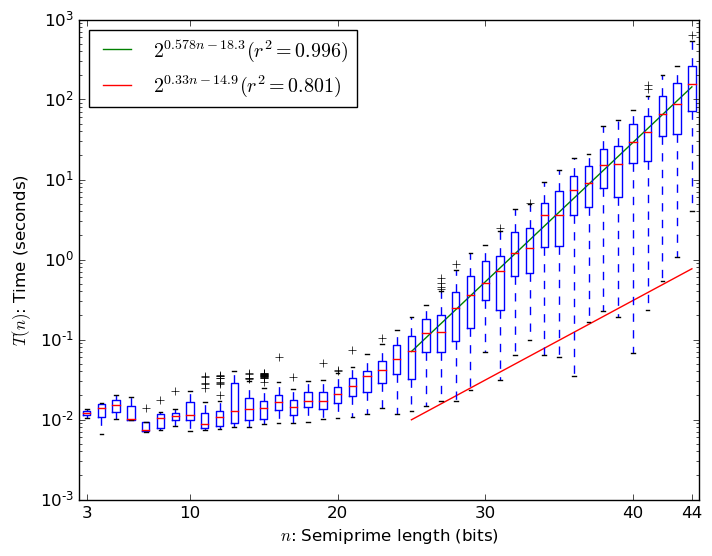
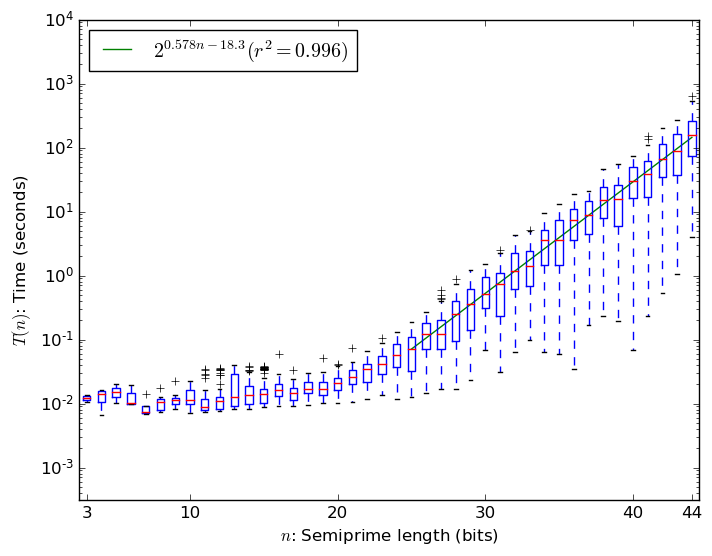
Minor fixes

diff --git a/solve/combined/plot.py b/solve/combined/plot.py
@@ -1,0 +1,79 @@
+#/usr/bin/env python3
+
+from collections import defaultdict
+import math
+import matplotlib.pyplot as plt
+import matplotlib as mpl
+
+mpl.style.use('classic')
+
+# upper bound on the number of operations per second for the SAT solver
+OP_SEC = 10**10
+
+def quantum_speedup(t):
+    '''Expected quantum speedup, given classical runtime t.
+    Assumptions:
+     - classical method achieved the upper bound on operations/sec
+     - full computation benefits from quadratic speedup
+     - quantum computer has same clock speed as the classical computer
+    '''
+    ops = t * OP_SEC
+    qops = math.sqrt(ops)
+    qt = qops / OP_SEC
+    return qt
+
+def plot():
+    domain = range(2, 1000)
+    xs = list(domain)
+
+    # expected runtime
+    def sat_runtime(n):
+        return 2**(.495*n - 16.4)
+    exp = list(map(sat_runtime, domain))
+    plt.plot(xs, exp, 'r', label='classical solver (expected runtime)',)
+    
+    # expected runtime (quantum speedup)
+    qexp = list(map(quantum_speedup, exp))
+    plt.plot(xs, qexp, 'r--', label='quantum solver (expected runtime)')
+    
+    # 1/10000 expected runtime
+    def sat_min_min(n):
+        return 2**(.217*n - 14.7)
+    pr_exp = list(map(sat_min_min, domain))
+    plt.plot(xs, pr_exp, 'b', label='classical solver ("easy" semi-primes)')
+
+    # 1/10000 expected runtime (quantum speedup)
+    pr_qexp = list(map(quantum_speedup, pr_exp))
+    plt.plot(xs, pr_qexp, 'b--', label='quantum solver ("easy" semi-primes)')
+
+    # trial division (experimental)
+    def trialdiv_runtime(n):
+        return 2**(.496*n - 28.8)
+    td = list(map(trialdiv_runtime, domain))
+    plt.plot(xs, td, 'g', label='trial division')
+
+    # Number Field Sieve
+    def nfs_runtime(n):
+        '''L_n[1/3, (64/9)^1/3 + o(1)]'''
+        x = (64.0/9.0)**(1/3)
+        ln = n / math.log2(math.e)
+        lln = math.log(ln)
+        ops = math.exp(x * ln**(1/3) * lln**(2/3))
+        return ops / OP_SEC;
+    nfs = list(map(nfs_runtime, domain))
+    plt.plot(xs, nfs, 'k', label='number field sieve')
+
+    plt.yscale('log')
+    plt.xlabel('$n$: semiprime length (bits)')
+    plt.ylabel('$T(n)$: time in seconds')
+    #plt.ylim(top=10.0**18.0)
+    plt.legend(loc='best')
+    plt.tight_layout()
+    plt.savefig('combined.png');
+
+def main():
+    plot()
+
+if __name__ == '__main__':
+    main()
+

diff --git a/stats/patterns/pattern.py b/stats/patterns/pattern.py
@@ -5,7 +5,7 @@ import numpy.polynomial.polynomial as poly
 import matplotlib.pyplot as plt
 from scipy import stats
 from sympy.ntheory.factor_ import smoothness
-import gmpy
+import gmpy2
 
 def rsquared(y, fit):
     y_mean = np.mean(y)
@@ -30,11 +30,11 @@ colors = ['b', 'g', 'r', 'k', 'm', 'y', 'c',]
 
 functions = [(lambda p, q: abs(p-q), '$|p-q|$', 'diff'),
              (lambda p, q: np.log2(p*q), '$\log_2 N$', 'size'),
-             (lambda p, q: gmpy.popcount(p*q), 'Hamming weight $N$', 'hwN'),
-             (lambda p, q: gmpy.popcount(p), 'Hamming weight $p$', 'hwp'),
-             (lambda p, q: gmpy.popcount(q), 'Hamming weight $q$', 'hwq'),
-             (lambda p, q: gmpy.hamdist(p, q), 'Hamming weight $p \oplus q$', 'hdpq'),
-             (lambda p, q: gmpy.hamdist(p, q), 'Hamming weight $p \oplus q$', 'hdpq'),
+             (lambda p, q: gmpy2.popcount(p*q), 'Hamming weight $N$', 'hwN'),
+             (lambda p, q: gmpy2.popcount(p), 'Hamming weight $p$', 'hwp'),
+             (lambda p, q: gmpy2.popcount(q), 'Hamming weight $q$', 'hwq'),
+             (lambda p, q: gmpy2.hamdist(p, q), 'Hamming weight $p \oplus q$', 'hdpq'),
+             (lambda p, q: gmpy2.hamdist(p, q), 'Hamming weight $p \oplus q$', 'hdpq'),
              (lambda p, q: smoothness(p-1)[0], 'Smoothness of $p-1$', 'smp'),
              (lambda p, q: smoothness(q-1)[0], 'Smoothness of $q-1$', 'smq'),
              (lambda p, q: smoothness(p-1)[0] + smoothness(q-1)[0], 'Smoothness of $p-1$ and $q-1$', 'smpq'),
@@ -49,7 +49,7 @@ for f, desc, fout in functions:
         xs = [f(p,q) for p, q in pqs]
         tcoefs = poly.polyfit(xs, ts, 1)
         tfit = poly.Polynomial(tcoefs)
-        trsquared = rsquared(ts, tfit(xs))
+        trsquared = rsquared(ts, tfit(np.array(xs)))
         plt.plot(xs, ts, '.', label='$n={}; r^2={:.2f}$'.format(n, trsquared), color=colors[n%len(colors)])
         linx = np.linspace(min(xs), max(xs), 100)
         plt.plot(linx, tfit(linx), color=colors[n%len(colors)])

diff --git a/solve/sat/plot.py b/solve/sat/plot.py
@@ -58,8 +58,10 @@ print('fit (minimum): {} (r^2: {})'.format(ymin_fit, ymin_rsquared), file=sys.st
 label_med = '$2^{{ {:.3g}n{:.3g} }} (r^2 = {:.3g})$'.format(ymed_fit.coef[1], ymed_fit.coef[0], ymed_rsquared)
 label_min = '$2^{{ {:.3g}n{:.3g} }} (r^2 = {:.3g})$'.format(ymin_fit.coef[1], ymin_fit.coef[0], ymin_rsquared)
 plt.plot(xx, np.exp2(ymed_fit(xx)), 'g', label=label_med)
-plt.plot(xx, np.exp2(ymin_fit(xx)), 'r', label=label_min)
+# min is not relevant with so few samples
+#plt.plot(xx, np.exp2(ymin_fit(xx)), 'r', label=label_min)
 plt.xlim([xs[0], xs[-1]])
+plt.ylim([10.0**-3.5, 10.0**4])
 plt.boxplot(ys, positions=xs)
 ax = plt.gca()
 ax.set_xticks([xs[0]] + list(range(10, xs[-1], 10)) + [xs[-1]])
